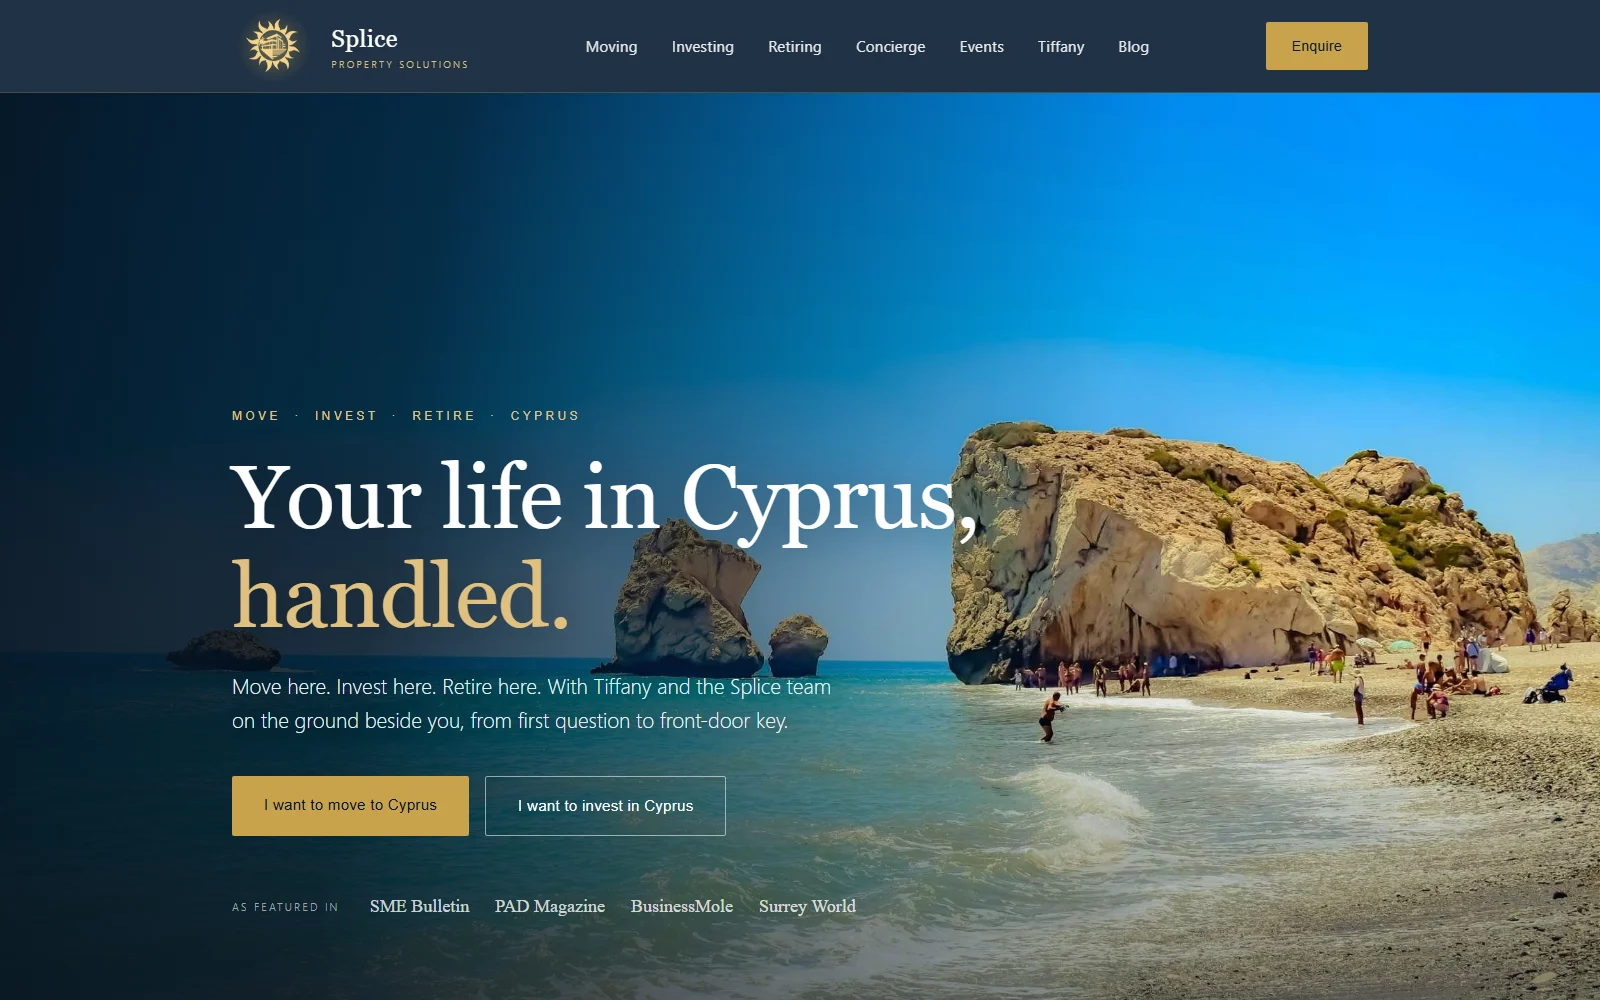
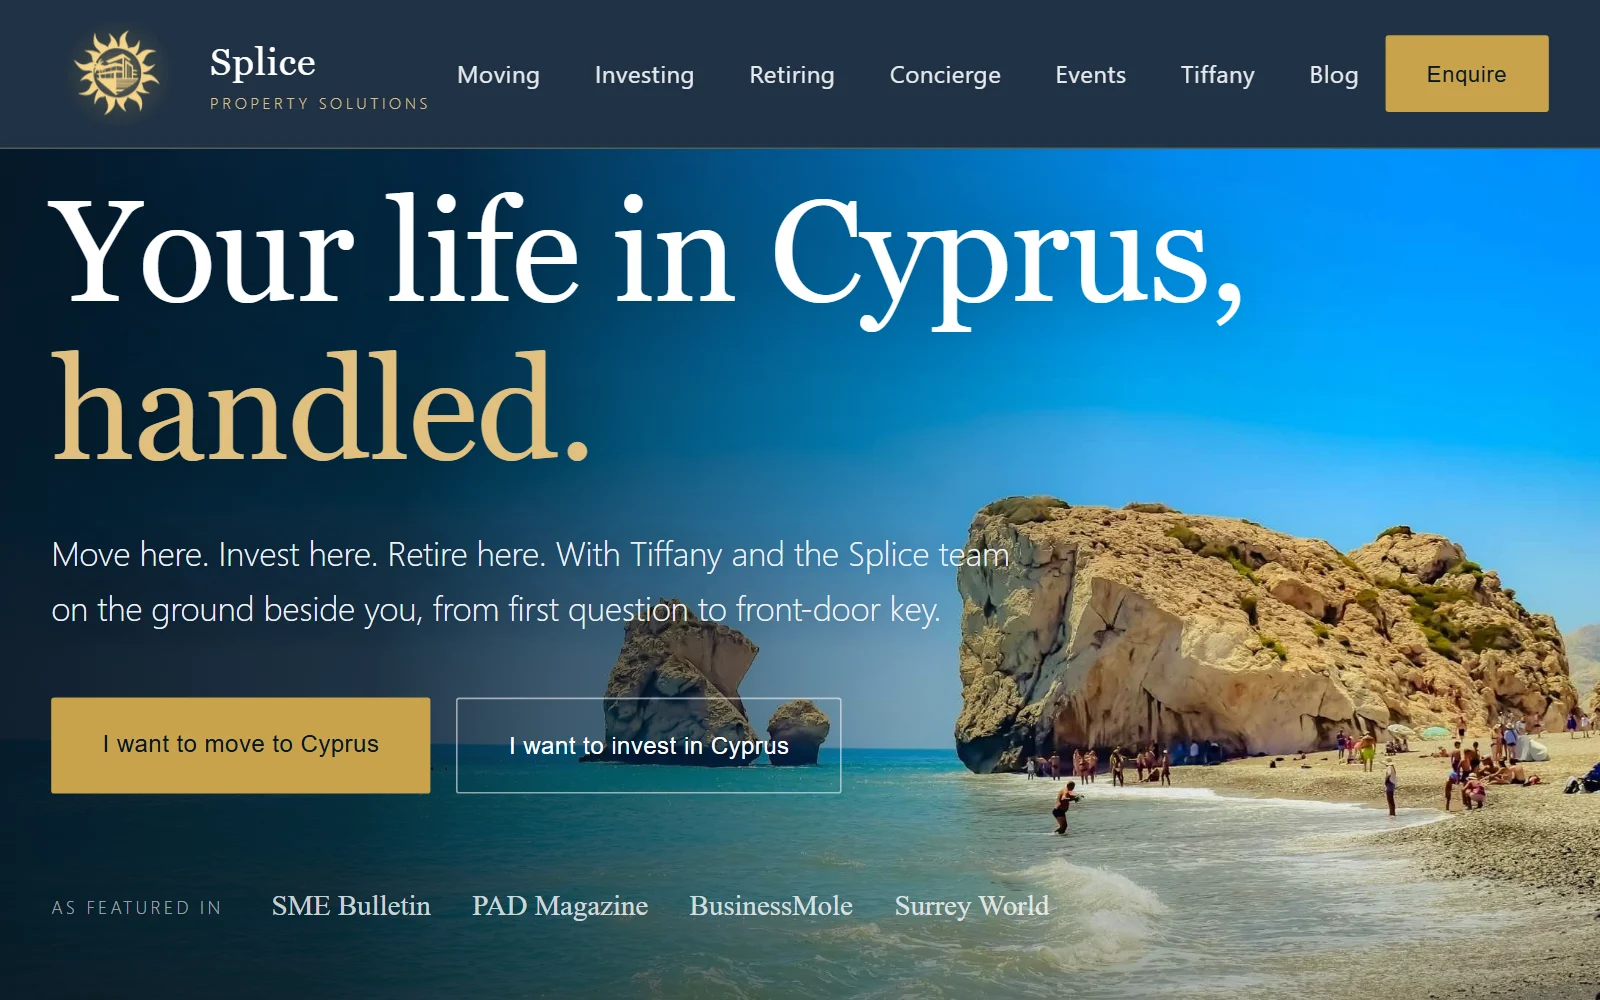
Reframe the Splice screenshot
Its card read as a photograph of a beach rather than a website. The hero is
a full-bleed image with the copy centred in a full-height section, so at
1600 wide the top third of a 16:10 frame is empty sky and the headline lands
too small to read in a card.

Shooting a narrower viewport at a higher pixel ratio fixes it. Type does not
shrink in step with the viewport, so the content fills more of the frame.
1000 by 625 at 1.6 lands on exactly 1600 by 1000, with no resampling
afterwards.

The capture script gained two arguments for this: pixels to trim off the
top, and pixel ratio. Both documented in the README, with the symptom that
should send you reaching for them.

Trimming the top alone was tried first and does not work here. A taller
viewport makes the hero taller too, so the content just moves down with it.

diff --git a/docs/NOTES.md b/docs/NOTES.md
@@ -371,6 +371,19 @@ the cookie bars. That fails on two of the three: Splice and Sequence Minds
 centre their hero vertically, so a taller viewport pushed the headline below
 the crop. Hiding the overlay is the version that works everywhere.
 
+Splice needed one more thing. Its hero is a full-bleed photograph with the
+copy centred, so at 1600 wide the top third of a 16:10 frame is empty sky
+and the headline lands small in a card. Shooting a narrower viewport at a
+higher device pixel ratio fixes it: the type does not shrink in step with
+the viewport, so the content fills more of the frame.
+
+```bash
+npm run capture -- https://example.com out.webp 1000 625 0 1.6
+```
+
+1000 by 625 at 1.6 lands on exactly 1600 by 1000, so nothing is resized
+afterwards. Try it on any site whose card looks mostly empty.
+
 Sticky headers are deliberately left alone. The rule is position fixed or
 sticky, not at the top of the page, and carrying an overlay-ish word in its
 id or class.

diff --git a/README.md b/README.md
@@ -53,6 +53,17 @@ modals so they do not sit on top of the hero, and writes WebP at the card's
 aspect ratio. Nothing is accepted or rejected on a consent banner: the
 elements are hidden, not answered.
 
+If a card comes out mostly empty, the site probably centres its hero in a
+full-height section. Shoot a narrower viewport at a higher pixel ratio so
+the content fills more of the frame:
+
+```bash
+npm run capture -- https://example.com public/work/example.webp 1000 625 0 1.6
+```
+
+That lands on exactly 1600 by 1000. The arguments are width, height, pixels
+to trim off the top, and pixel ratio.
+
 ## Layout
 
 ```
